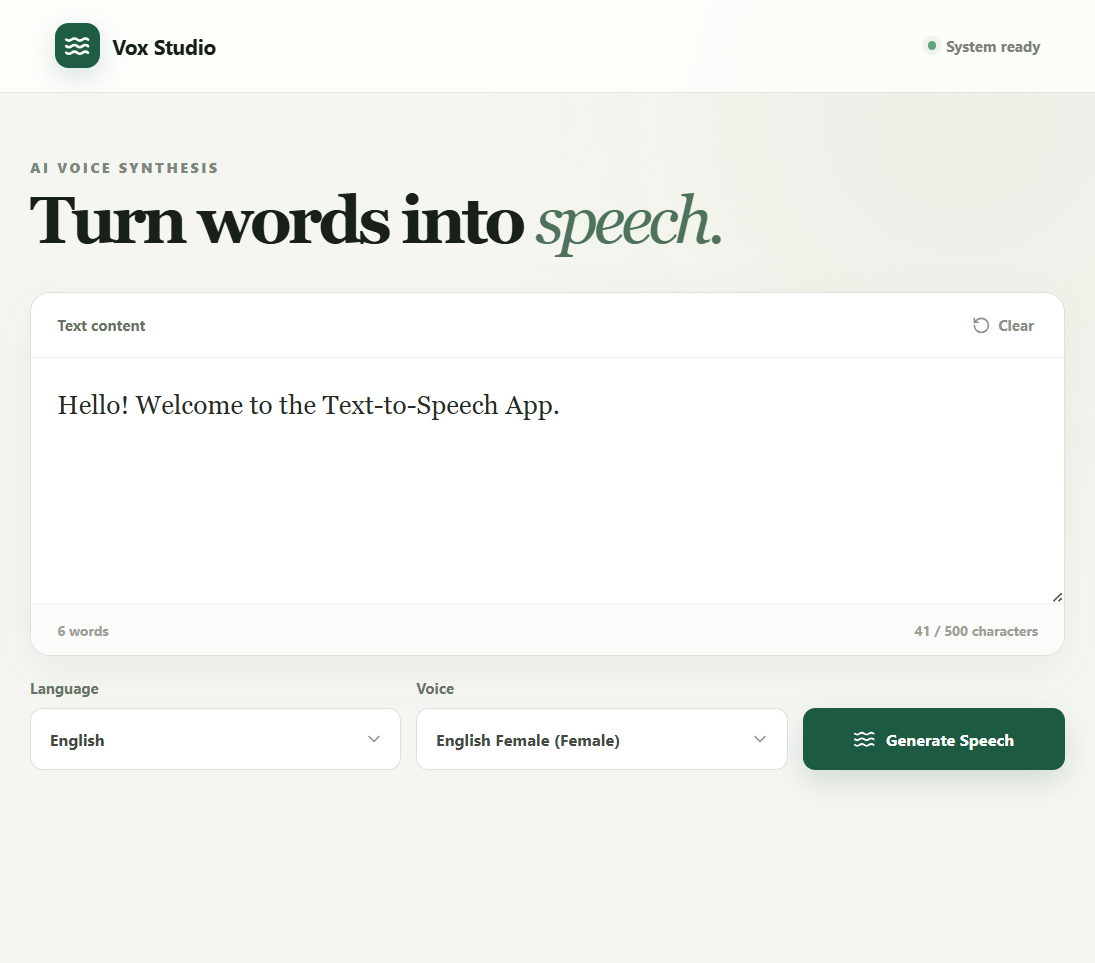
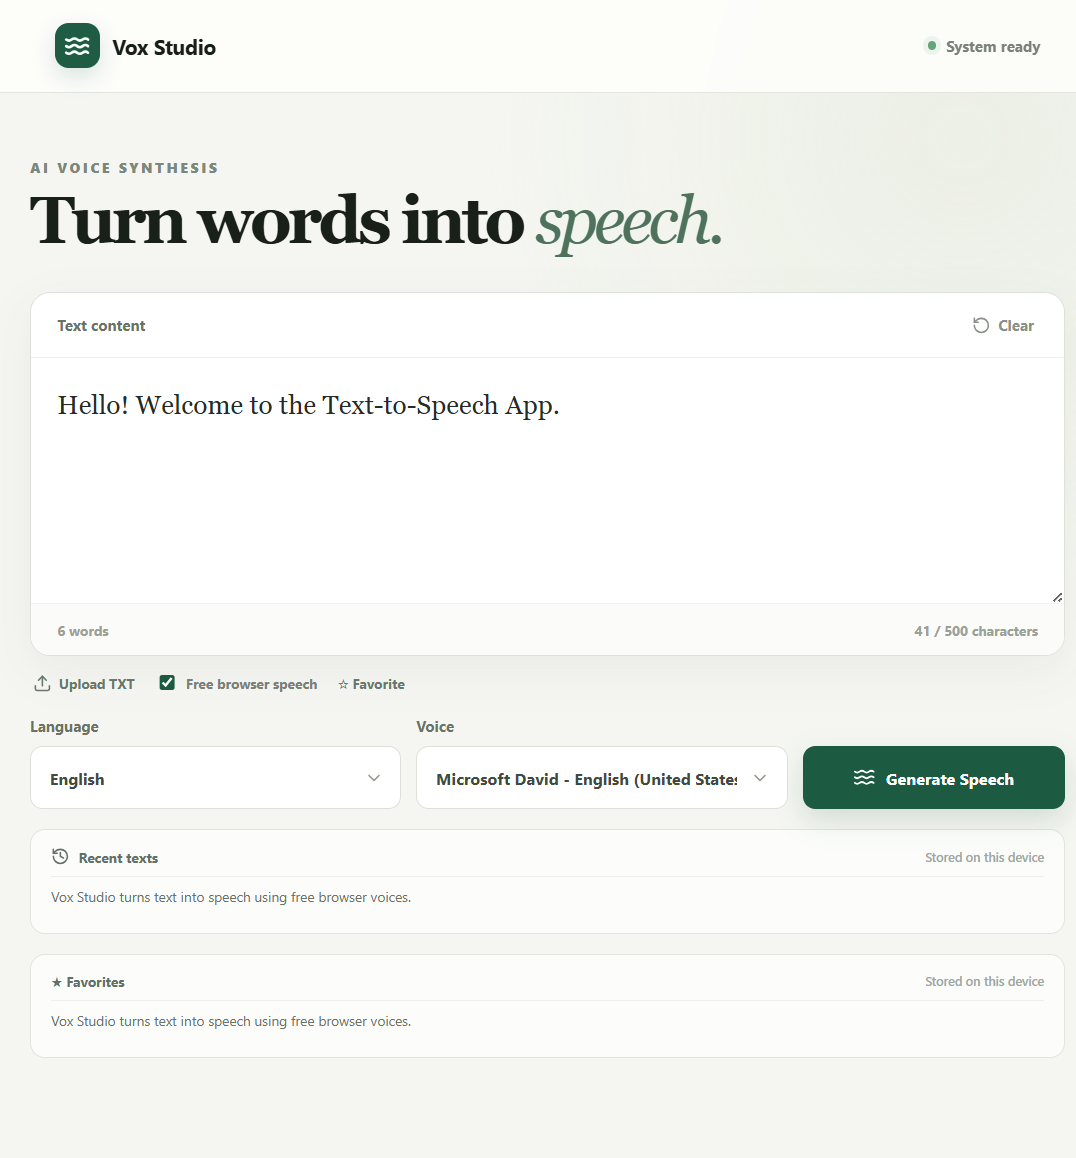
Document free deployment and refresh submission assets

diff --git a/scripts/create-presentation.js b/scripts/create-presentation.js
@@ -11,12 +11,12 @@ const slides = [
   ['Text-to-Speech Application', 'React + Node.js + Express', 'Vox Studio'],
   ['Problem', 'Converts large or difficult written text into accessible spoken audio.', 'Text Input'],
   ['Objectives', 'Learn React, REST APIs, backend validation, third-party TTS integration, and secure credential handling.', 'Learning'],
-  ['System Architecture', 'React UI -> Express REST API -> TTS Provider -> Audio response -> Browser player', 'Flow'],
-  ['Implemented Features', 'Text and word counts | 500-character limit | Language and voice selection | Generate, play, seek, mute, and download', 'Features'],
+  ['System Architecture', 'Free public frontend: GitHub Pages + browser speech synthesis | Local backend: Express + Windows SAPI or optional ElevenLabs', 'Flow'],
+  ['Implemented Features', 'Text and word counts | Language and voice selection | Browser speech | Playback rate and pitch | TXT import | Local history and favorites', 'Features'],
   ['API Endpoints', 'GET /api/health | GET /api/voices | POST /api/tts', 'Backend'],
   ['Security', 'Environment credentials | CORS | Rate limiting | Input validation | Temporary audio cleanup', 'Security'],
-  ['Testing', 'API validation tested | Successful Windows SAPI generation tested | Frontend build and lint passed', 'Quality'],
-  ['Demo', 'Enter text -> Select language and voice -> Generate speech -> Play or download', 'Walkthrough'],
+  ['Testing', '5 API tests pass | Local Windows SAPI generation tested | Frontend lint/build pass | GitHub Pages deployment verified', 'Quality'],
+  ['Demo', 'Enter text -> Select an installed browser voice -> Generate -> Play -> Adjust speed or pitch', 'Walkthrough'],
   ['Conclusion', 'A complete Level 1 project demonstrating full-stack communication and TTS integration.', 'Summary'],
 ];
 

diff --git a/DEPLOYMENT.md b/DEPLOYMENT.md
@@ -1,5 +1,14 @@
 # Deployment
 
+## Free frontend - GitHub Pages
+
+The public, zero-cost demo deploys automatically from `main` through GitHub Actions:
+
+https://ahusan20.github.io/text-to-speech-app/
+
+It uses the browser's built-in speech voices and local browser storage. The browser
+does not provide an audio file for download in this mode.
+
 ## Frontend - Vercel
 
 1. Import this repository in Vercel.
@@ -11,10 +20,10 @@
 
 ## Backend - Render
 
-1. Import this repository in Render.
+1. Import this repository in Render (the blueprint requests its free plan).
 2. Render can use `render.yaml`.
 3. Set `CORS_ORIGIN` to the Vercel frontend URL.
-4. Set ElevenLabs credentials for Linux hosting.
+4. Set ElevenLabs credentials for Linux-hosted file generation, if required.
 5. Windows Speech SAPI is only available for local Windows development.
 
 ## Required Environment Variables
